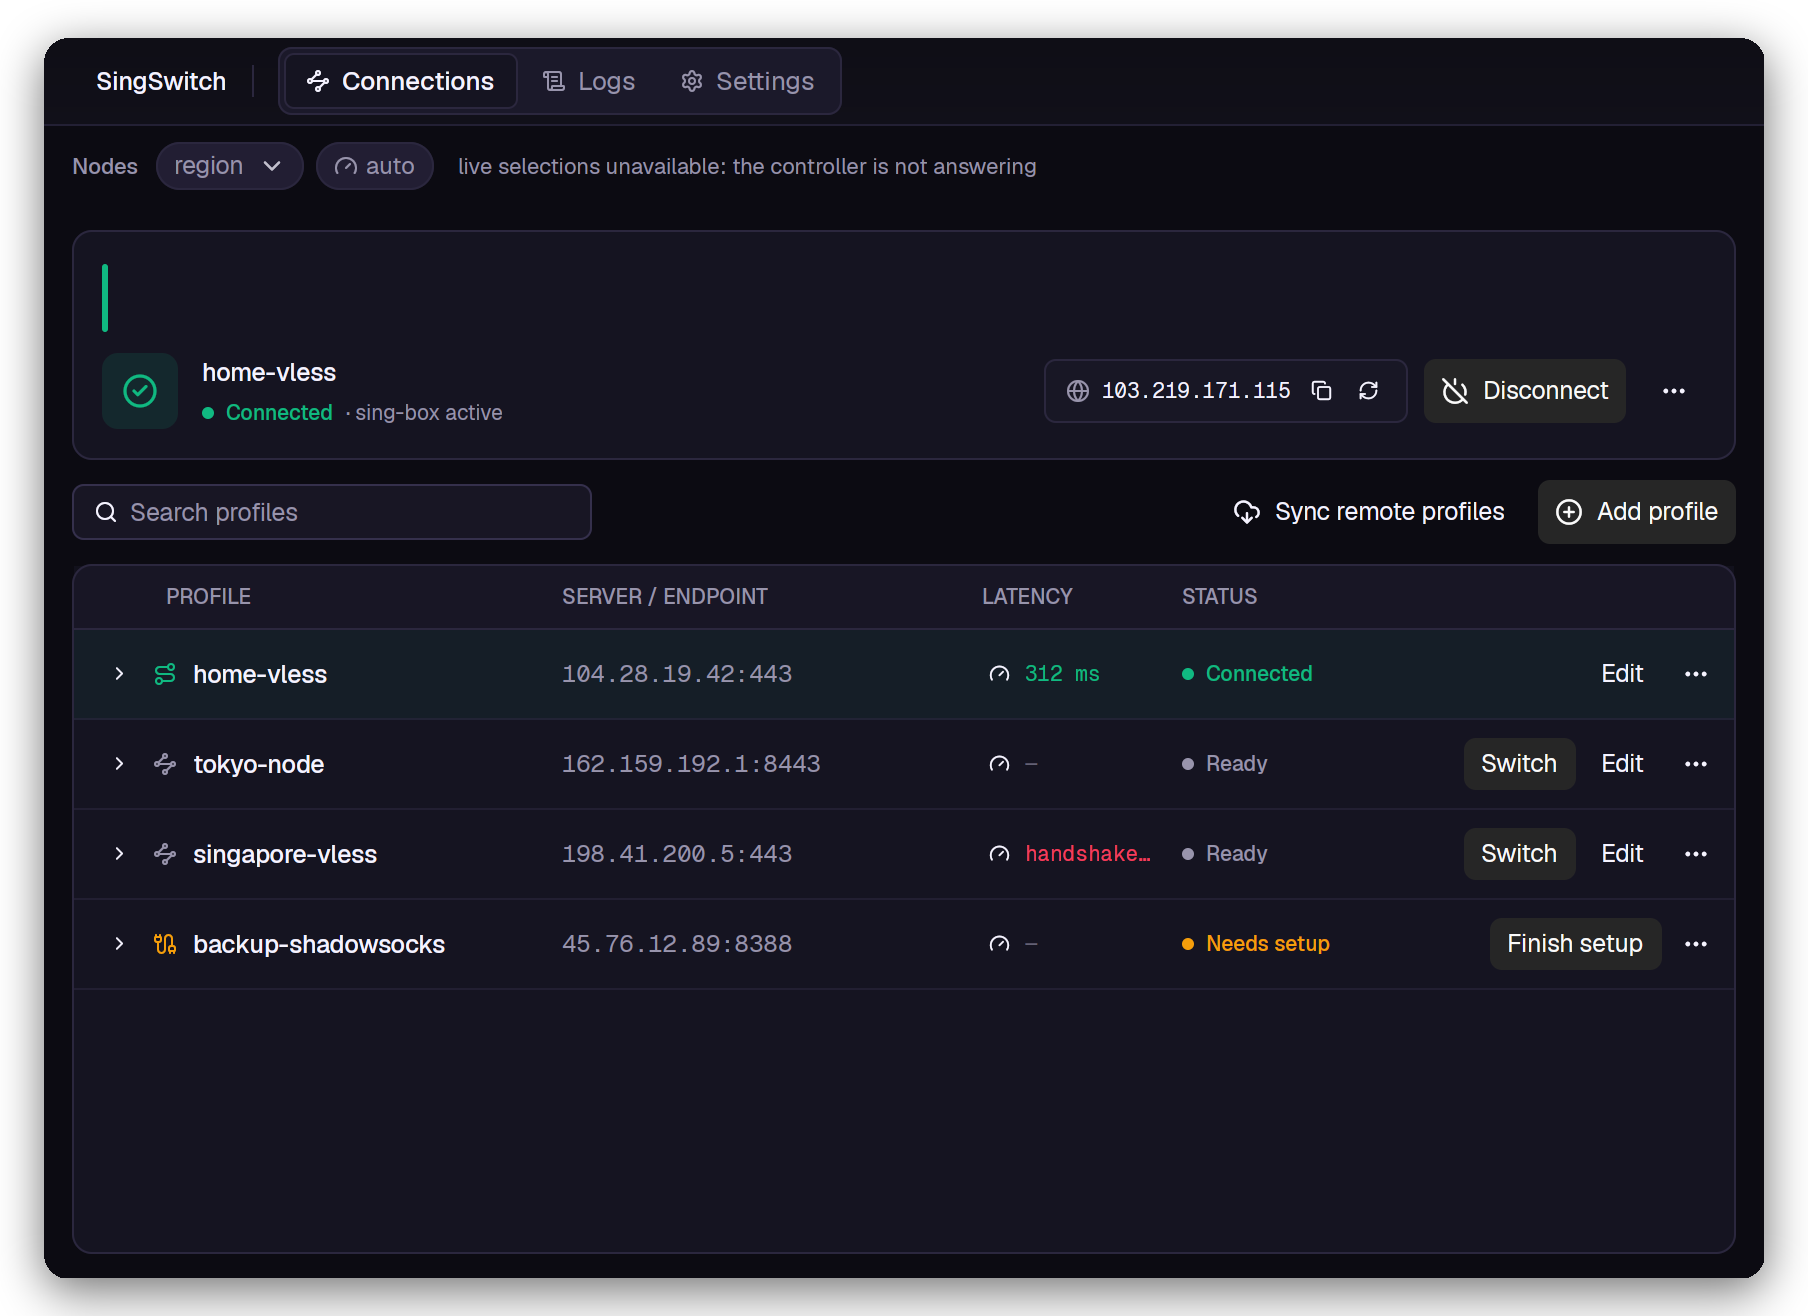
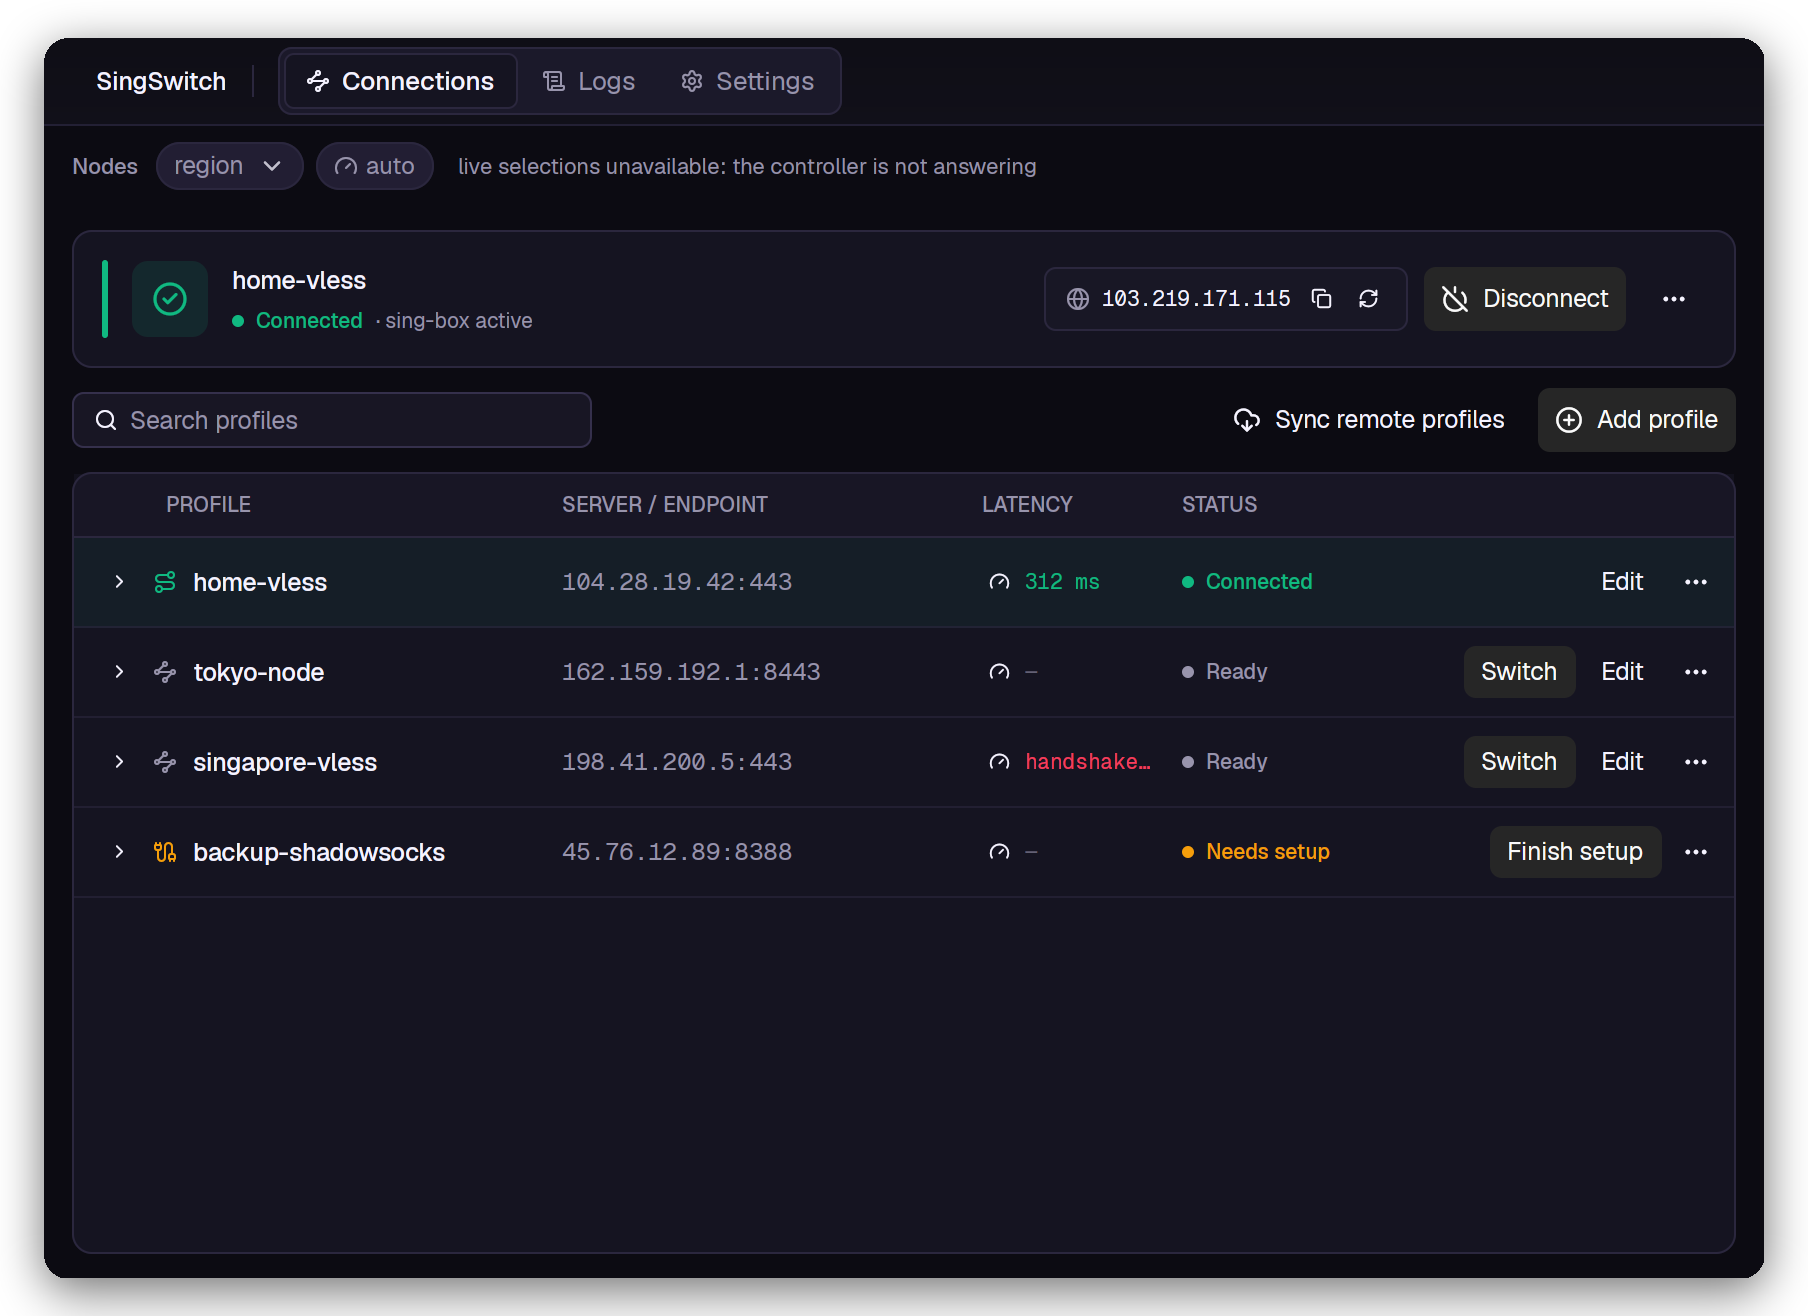
fix(ui): lay the connection accent rule out beside the card content
The rule was a sibling above the content row in the card's v_flex, so it
rendered as a stray 3px tick at the top-left instead of a vertical bar.
It now sits in the same h_flex as the content with items_stretch, so it
spans the row's height at the card's left edge.

Screenshots regenerated; gate green.

diff --git a/crates/singswitch-app/src/views/profiles.rs b/crates/singswitch-app/src/views/profiles.rs
@@ -586,32 +586,29 @@ impl ProfilesView {
             // A 3px accent rule on the left edge carries the state colour. A
             // full border tinted green read as a glowing frame around the
             // whole card; a rule reads as a status marker and leaves the card
-            // itself neutral.
-            .child(
-                div()
-                    .id("connection-accent")
-                    .w(px(3.0))
-                    .flex_none()
-                    .self_start()
-                    .mt(px(2.0))
-                    .mb(px(2.0))
-                    .h(px(34.0))
-                    .rounded_full()
-                    .bg(if connected {
-                        cx.theme().success
-                    } else if broken {
-                        cx.theme().danger
-                    } else if visual == TrayVisualState::Transitioning {
-                        cx.theme().warning
-                    } else {
-                        cx.theme().muted_foreground.opacity(0.4)
-                    }),
-            )
+            // itself neutral. It sits beside the content in one row, not
+            // above it, so it spans the card's height as a vertical bar.
             .child(
                 h_flex()
                     .w_full()
-                    .items_center()
+                    .items_stretch()
                     .gap(px(12.0))
+                    .child(
+                        div()
+                            .id("connection-accent")
+                            .w(px(3.0))
+                            .flex_none()
+                            .rounded_full()
+                            .bg(if connected {
+                                cx.theme().success
+                            } else if broken {
+                                cx.theme().danger
+                            } else if visual == TrayVisualState::Transitioning {
+                                cx.theme().warning
+                            } else {
+                                cx.theme().muted_foreground.opacity(0.4)
+                            }),
+                    )
                     // LEFT: Status & Profile Identity
                     .child(
                         h_flex()
